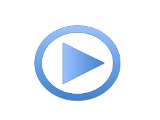
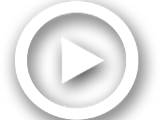
Change the 'play' overlay image

diff --git a/osvm.py b/osvm.py
@@ -5527,11 +5527,11 @@ class OSVM(wx.Frame):
         if suffix == 'MOV':
             print('_displayThumbnail(): Overlaying %s' % image)
             overlay = Image.open(image)
-            background = Image.open(os.path.join(__imgDir__, "play2-160x120.png"))
+            background = Image.open(os.path.join(__imgDir__, "play4-160x120.png"))
             background = background.convert("RGB")
             overlay = overlay.convert("RGB")
 
-            newThumbnail = Image.blend(background, overlay, 0.8)
+            newThumbnail = Image.blend(background, overlay, 0.7) #0.8)
 
             d=os.path.dirname(image)
             f=os.path.basename(image)
